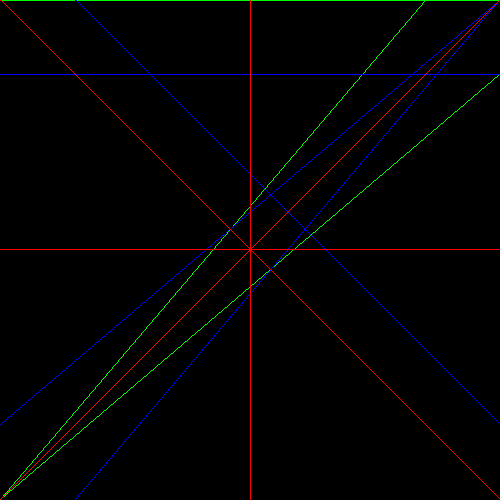
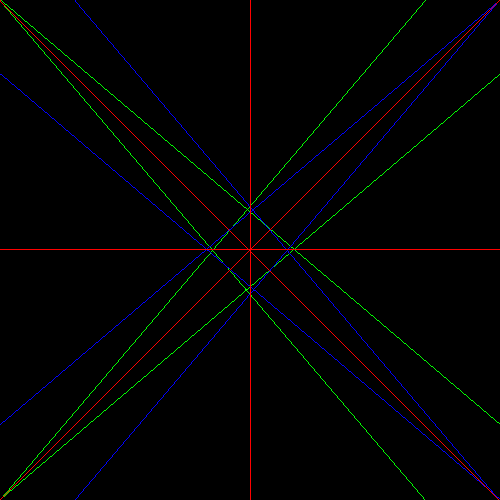
Floating points are pure evil

diff --git a/draw.c b/draw.c
@@ -18,6 +18,7 @@ void draw_line(int x0, int y0, int x1, int y1, screen s, color c) {
 		B = -(x1 - x0);
 		slope = find_slope(x0, y0, x1, y1);
 		if (slope == 1){
+			printf("First\n");
 			d = 2 * A + B;
 			while (x <= x1){
 				plot(s, c, x, y);
@@ -30,6 +31,7 @@ void draw_line(int x0, int y0, int x1, int y1, screen s, color c) {
 			}
 		}
 		if (slope == 2){
+			printf("Second\n");
 			d = A + 2 * B;
 			while (y <= y1){
 				plot(s, c, x, y);
@@ -42,10 +44,11 @@ void draw_line(int x0, int y0, int x1, int y1, screen s, color c) {
 			}
 		}
 		if (slope == 3){
+			printf("Seventh\n");
 			d = A - 2 * B;
 			while (y >= y1){
 				plot(s, c, x, y);
-				if (d > 0){
+				if (d < 0){
 					x += 1;
 					d -= 2 * A;
 				}
@@ -54,6 +57,7 @@ void draw_line(int x0, int y0, int x1, int y1, screen s, color c) {
 			}
 		}
 		if (slope == 4){
+			printf("Eigth\n");
 			d = 2 * A - B;
 			while (x <= x1){
 				plot(s, c, x, y);
@@ -73,16 +77,17 @@ int find_slope(int x0, int y0, int x1, int y1){
 	if (x1 == x0){
 		return 2;
 	}
-	m = (y1 - y0) / (x1 - x0);
+	m = (y1 * 1.0 - y0) / (x1 * 1.0 - x0);
 	if (m >= 0 && m < 1){
+		//printf("%d %d %d %d %f\n", x0, y0, x1, y1, m);
 		return 1;
 	}
 	if (m >= 1){
 		return 2;
 	}
-	if (m < 0 && m >= -1){
-		return 4;
+	if (m <= -1){
+		return 3;
 	}
-	return 3;
+	return 4;
 }
 

diff --git a/main.c b/main.c
@@ -27,7 +27,6 @@ int main() {
   draw_line( 0, YRES-1, XRES-1, 75, s, c);  
   //octant 7
   draw_line( 0, YRES-1, XRES - 75, 0, s, c);
-
   c.green = 0;
   c.blue = MAX_COLOR;
   //octant 5
